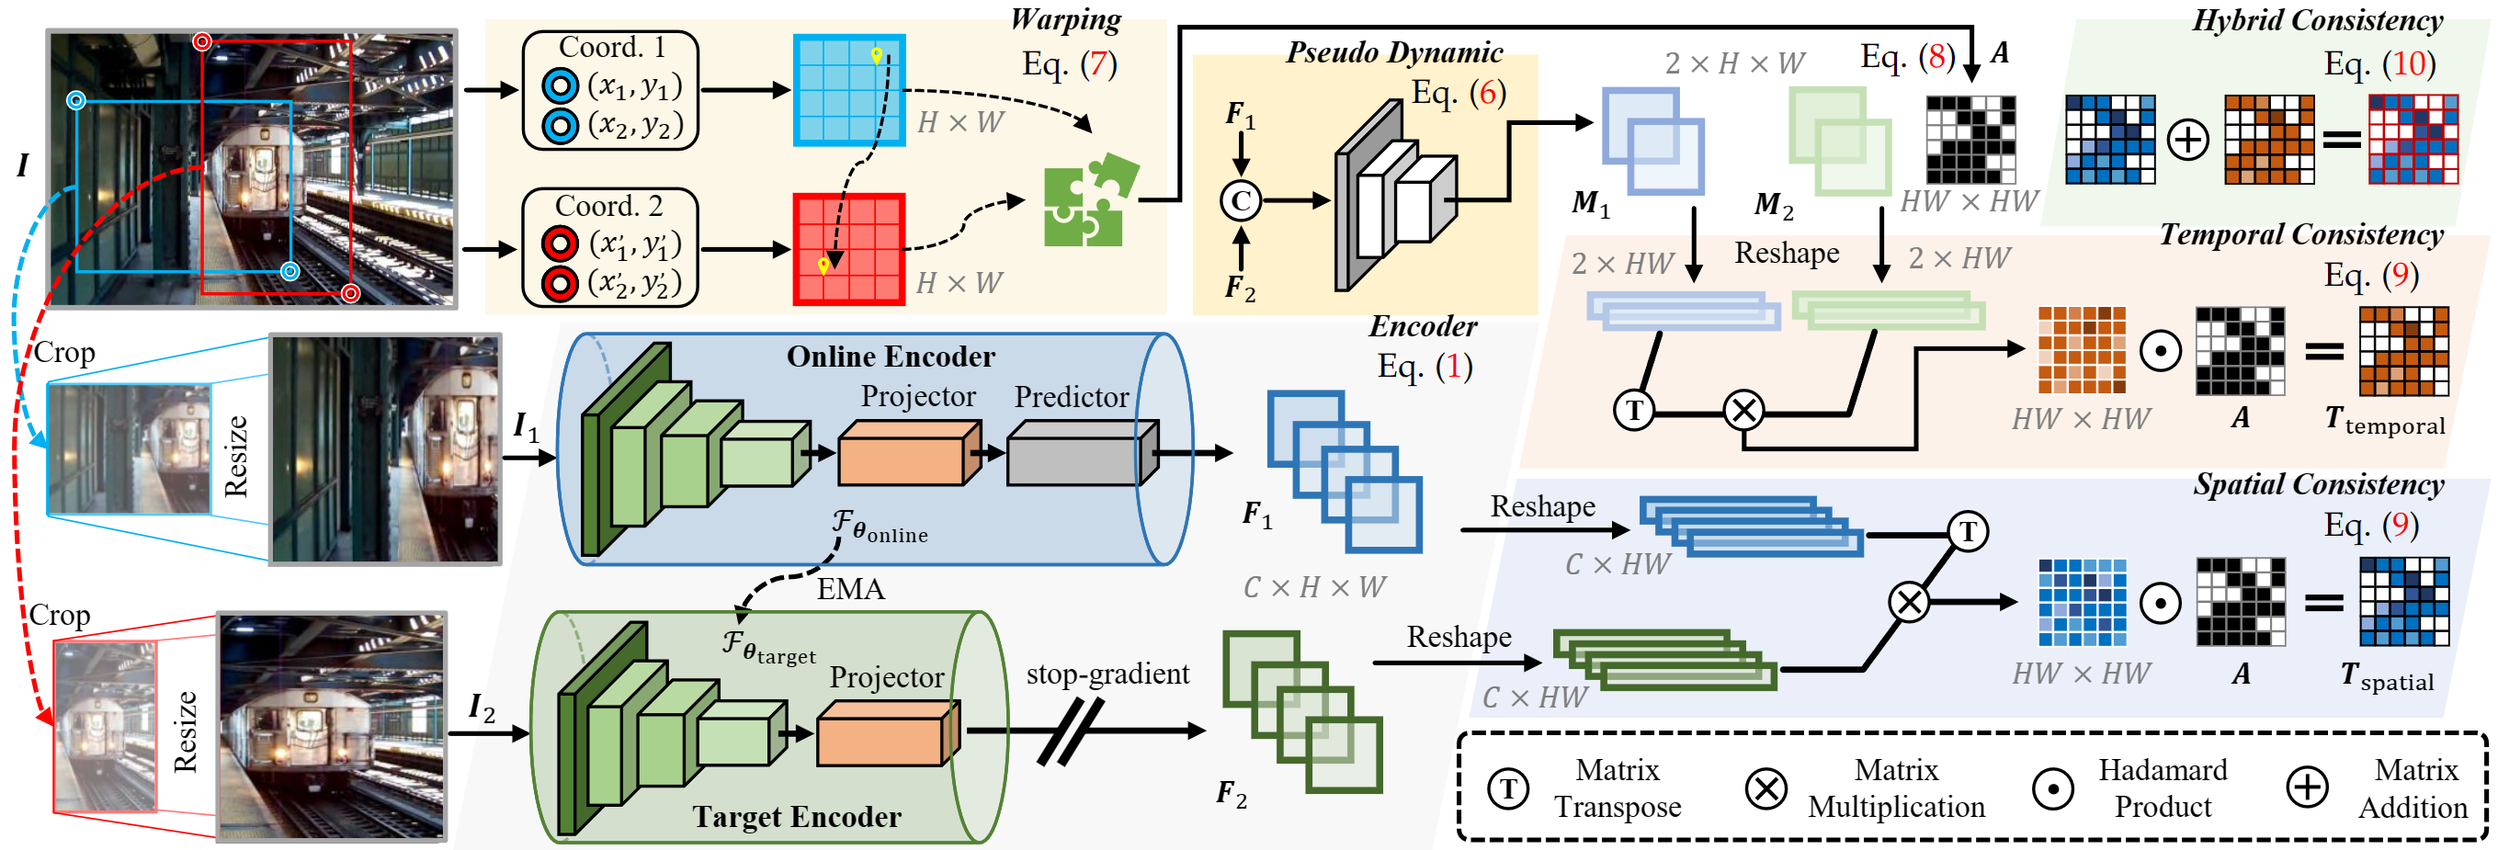
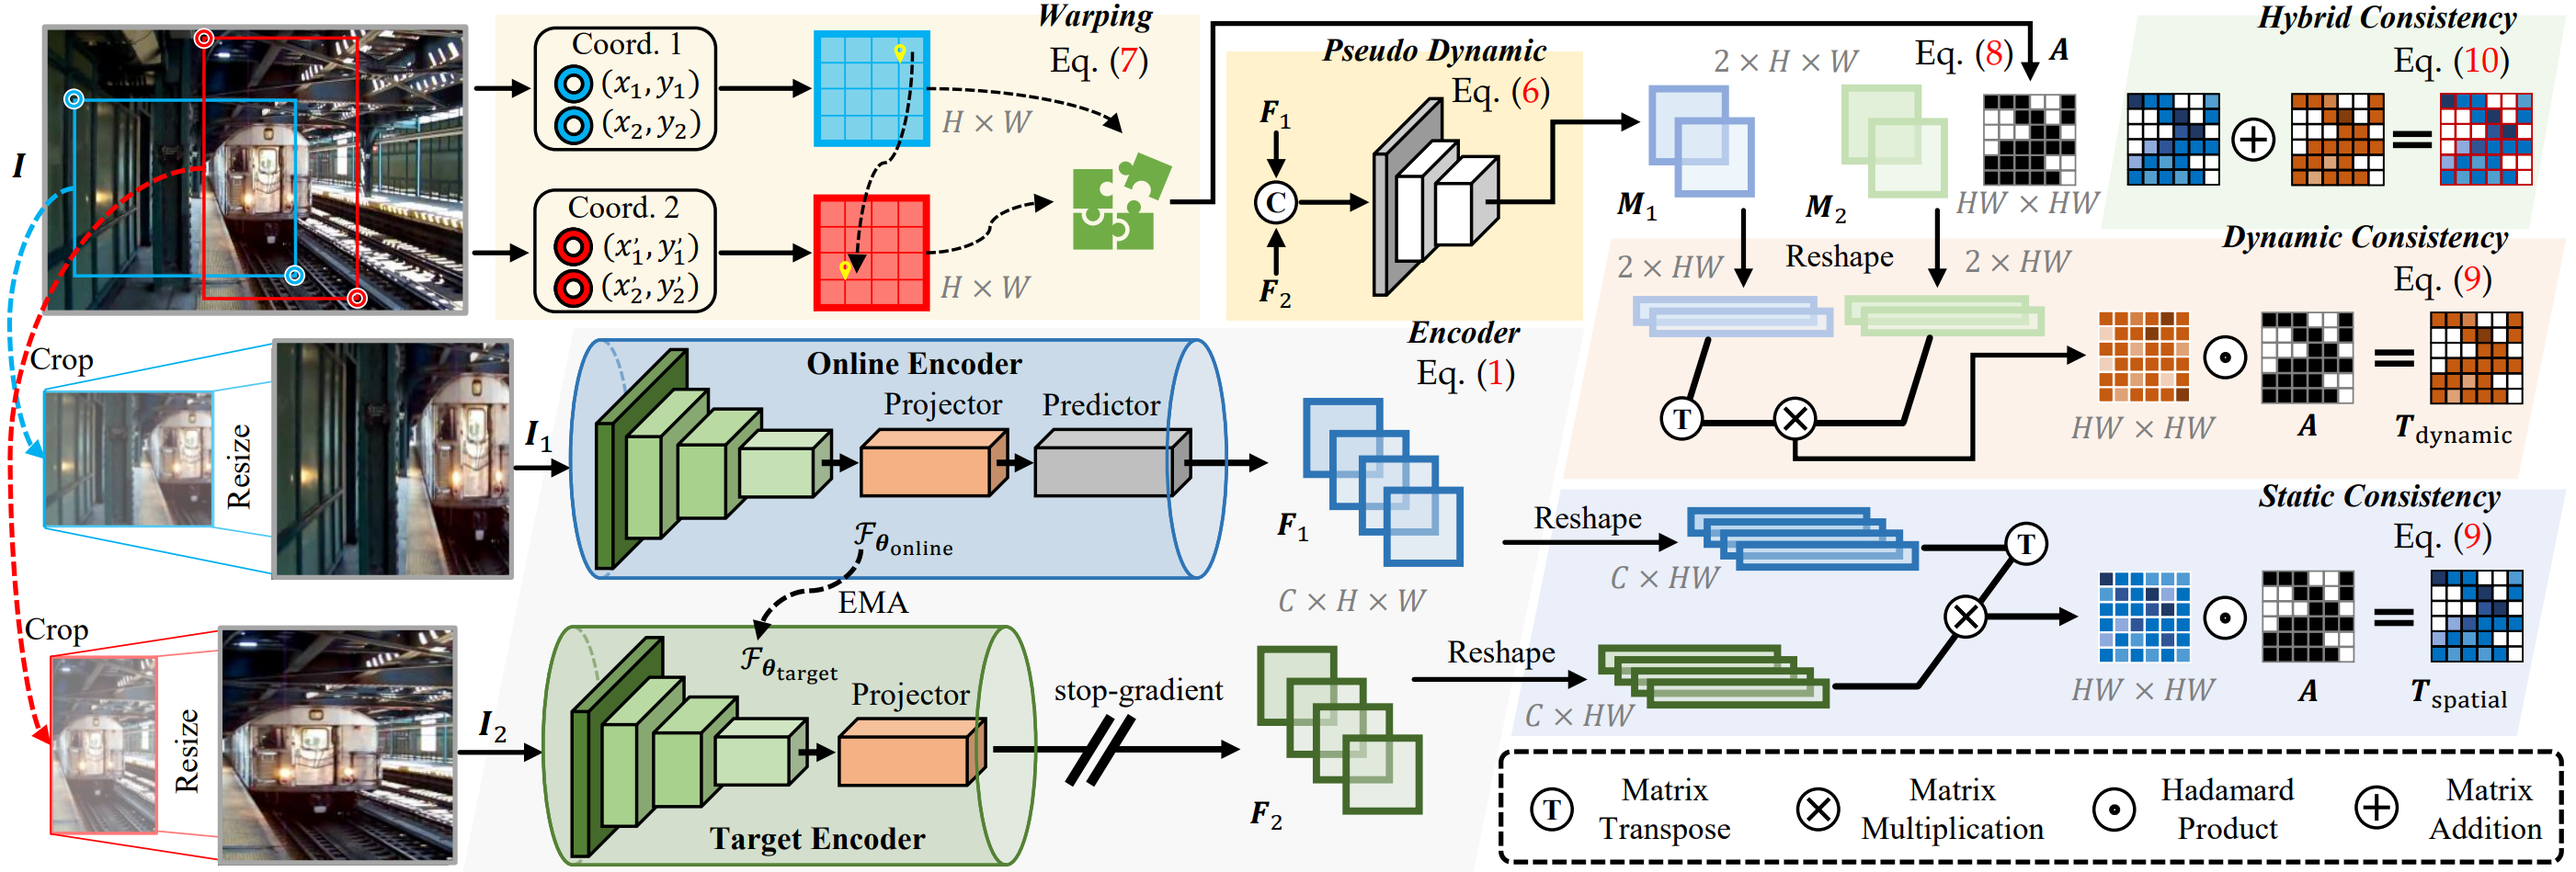
update readme

Changed region(s): [[0.0, 0.0, 0.989, 0.9989], [0.5563, 0.7265, 1.0, 0.9989], [0.4636, 0.3027, 0.4945, 0.3632]]

diff --git a/README.md b/README.md
@@ -2,7 +2,7 @@
 >This repository is the official PyTorch implementation of the paper "**Dynamic in Static: Hybrid Visual Correspondence for Self-Supervised Video Object Segmentation**"
 
 ## Abstract
->Conventional video object segmentation (VOS) methods usually necessitate a substantial volume of pixel-level annotated video data for fully supervised learning. In this paper, we present HVC, a **h**ybrid spatial-temporal **v**isual **c**orrespondence framework for self-supervised VOS setting. HVC extracts pseudo-dynamic signals from static images to achieve an economical and scalable VOS model. Our approach utilizes a minimalist fully-convolutional architecture to capture spatial-temporal visual correspondence in image-cropped views. To achieve this objective, we present a unified self-supervised approach to learn representations of spatial-temporal feature similarity. Firstly, we establish spatial correspondence by utilizing a priori coordinate information between cropped views to guide the formation of consistent spatial feature representations. Subsequently, we devise a concise convolutional layer to capture the forward / backward pseudo-dynamic flows between two views, serving as a cue for temporal representations. Finally, we propose a hybrid visual correspondence loss to learn joint spatial and temporal consistency representations. Our approach, without bells and whistles, necessitates only one training session from static image data, minimizing memory consumption (**16GB**) and training time (**2h**). Moreover, HVC achieves state-of-the-art performance in several self-supervised VOS benchmarks.
+>Conventional video object segmentation (VOS) methods usually necessitate a substantial volume of pixel-level annotated video data for fully supervised learning. In this paper, we present HVC, a **h**ybrid static-dynamic **v**isual **c**orrespondence framework for self-supervised VOS. HVC extracts pseudo-dynamic signals from static images, enabling an efficient and scalable VOS model. Our approach utilizes a minimalist fully-convolutional architecture to capture static-dynamic visual correspondence in image-cropped views. To achieve this objective, we present a unified self-supervised approach to learn visual representations of static-dynamic feature similarity. Firstly, we establish static correspondence by utilizing a priori coordinate information between cropped views to guide the formation of consistent static feature representations. Subsequently, we devise a concise convolutional layer to capture the forward / backward pseudo-dynamic signals between two views, serving as cues for dynamic representations. Finally, we propose a hybrid visual correspondence loss to learn joint static and dynamic consistency representations. Our approach, without bells and whistles, necessitates only one training session using static image data, significantly reducing memory consumption (**16GB**) and training time (**2h**). Moreover, HVC achieves state-of-the-art performance in several self-supervised VOS benchmarks and additional video label propagation tasks.
 ![HVC](assets/pipeline.png)
 ><center>The architeture of HVC.</center>
 
